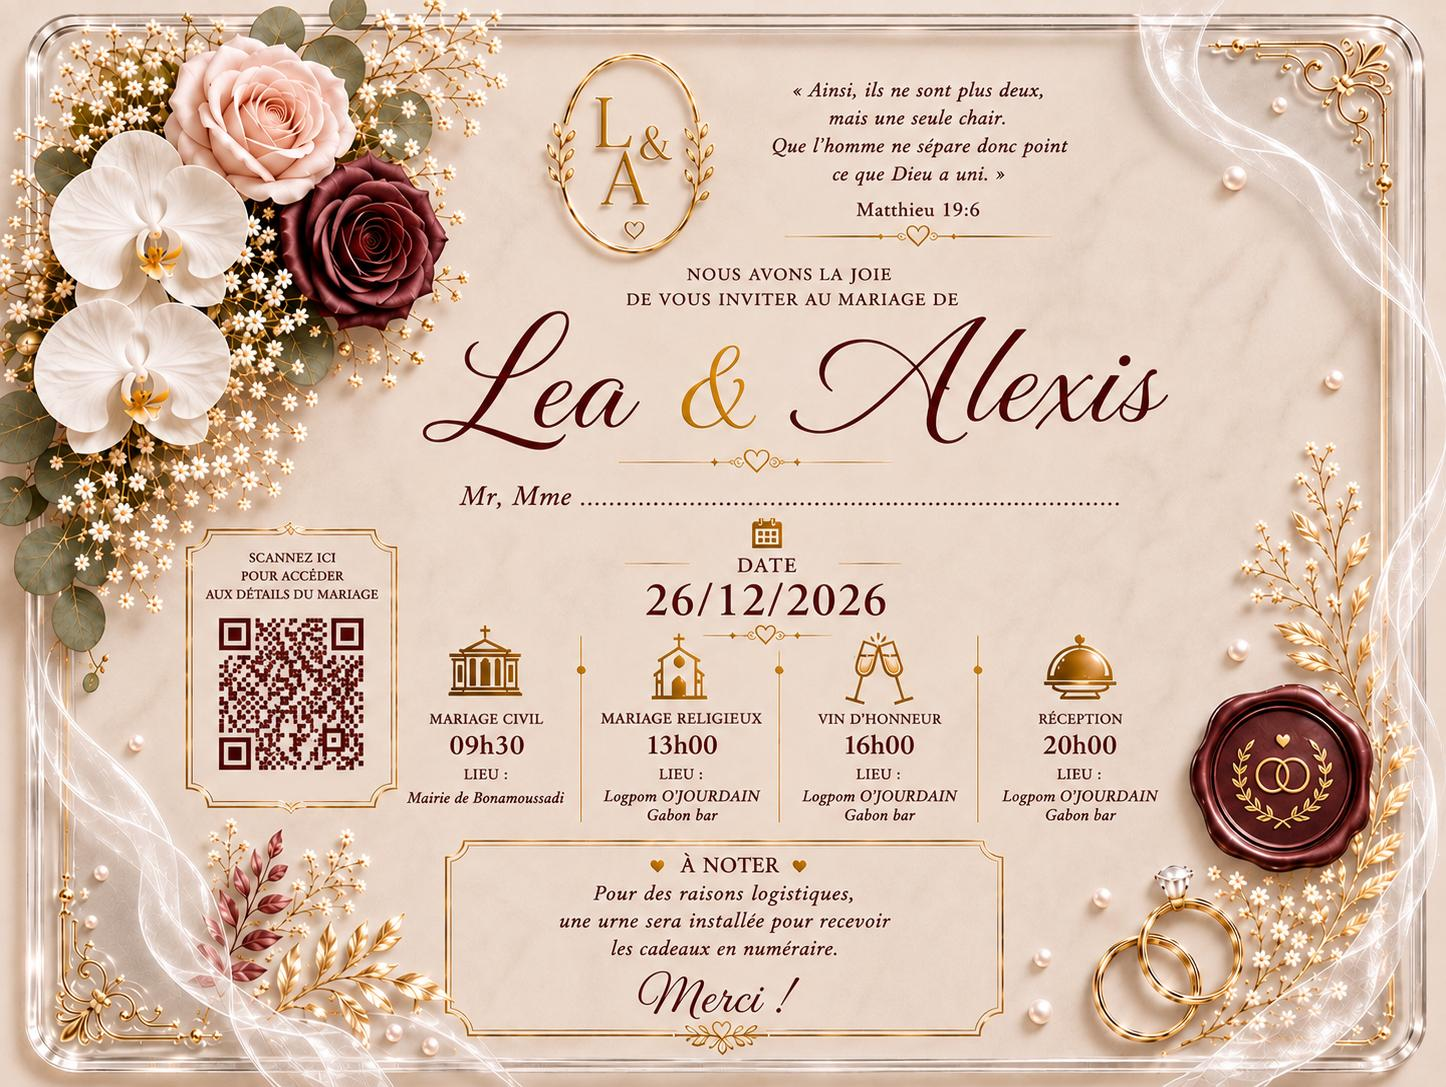
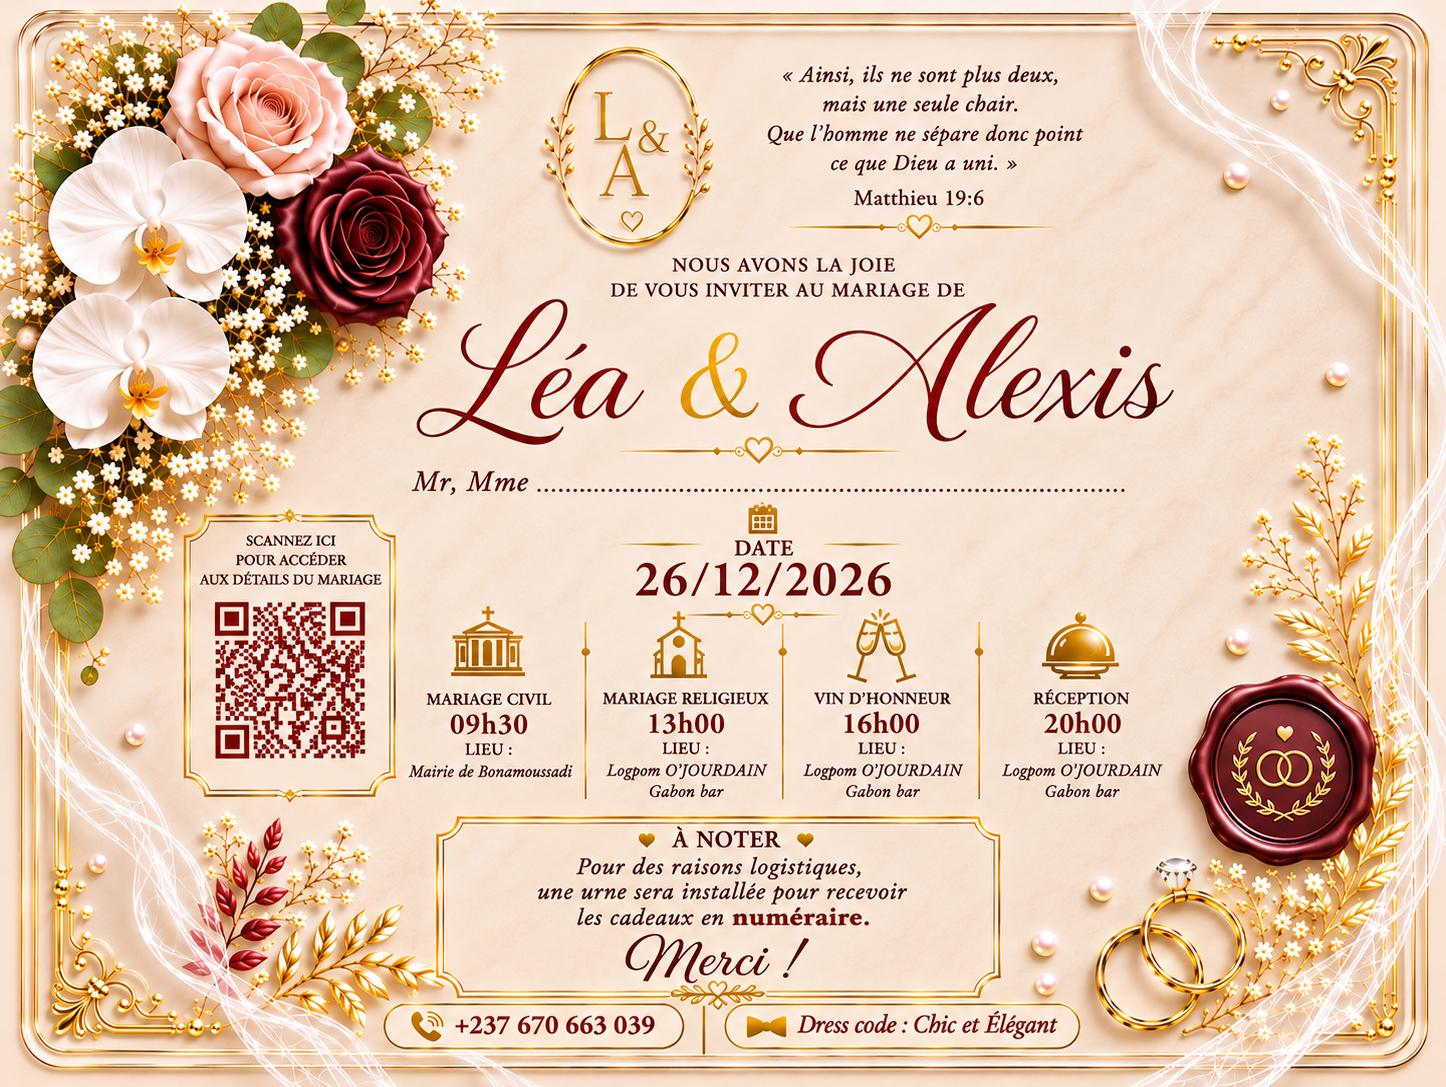
Placer le nom de l'invite et le QR sur le visuel du billet.

diff --git a/frontend/src/utils/GeneratePdf.jsx b/frontend/src/utils/GeneratePdf.jsx
@@ -3,11 +3,13 @@ import QRCode from 'qrcode';
 import { getBilletCivility, getBilletLineText, MAX_BILLET_LINE_CHARS } from './invitePeople';
 import billetImg from '../assets/img/billet.jpg';
 
-const IMG_W = 1024;
-const IMG_H = 768;
+const SRC_W = 1446;
+const SRC_H = 1087;
 const PAGE_W = 280;
 const PAGE_H = 210;
 const API_URL_FRONTEND = 'https://wedd-i8ls.onrender.com';
+const PAPER = 'rgb(247, 226, 208)';
+const INK = 'rgb(92, 51, 23)';
 
 const loadImage = (url) =>
   new Promise((resolve, reject) => {
@@ -42,42 +44,47 @@ const drawBilletCanvas = async (invite) => {
       await QRCode.toDataURL(`${API_URL_FRONTEND}/invites/${invite.inviteId}`, {
         margin: 1,
         width: 512,
-        color: { dark: '#3b1d12', light: '#f3e8d6' },
+        color: { dark: '#3b1d12', light: '#f7e2d0' },
       })
     ),
   ]);
 
   const canvas = document.createElement('canvas');
-  canvas.width = IMG_W;
-  canvas.height = IMG_H;
+  canvas.width = background.naturalWidth || SRC_W;
+  canvas.height = background.naturalHeight || SRC_H;
   const ctx = canvas.getContext('2d');
+  const sx = canvas.width / SRC_W;
+  const sy = canvas.height / SRC_H;
+  const X = (value) => value * sx;
+  const Y = (value) => value * sy;
 
-  ctx.drawImage(background, 0, 0, IMG_W, IMG_H);
+  ctx.drawImage(background, 0, 0);
 
-  ctx.fillStyle = 'rgb(243, 232, 214)';
-  ctx.fillRect(138, 414, 128, 148);
-  ctx.drawImage(qrImage, 142, 420, 120, 120);
+  ctx.fillStyle = PAPER;
+  ctx.fillRect(X(196), Y(455), X(192), Y(330));
 
-  ctx.fillStyle = 'rgb(243, 232, 214)';
-  ctx.fillRect(138, 388, 128, 26);
+  const cardCenter = X(292);
+  ctx.fillStyle = INK;
+  ctx.textAlign = 'center';
+  ctx.textBaseline = 'middle';
+  ctx.font = `bold ${Math.round(16 * sy)}px "Times New Roman", Times, serif`;
+  ctx.fillText('SCANNEZ ICI', cardCenter, Y(488));
+
   const inviteIdText = String(invite.inviteId || '').trim();
   if (inviteIdText) {
-    ctx.fillStyle = 'rgb(92, 51, 23)';
-    ctx.textAlign = 'center';
-    ctx.textBaseline = 'middle';
-    ctx.font = 'bold 13px "Times New Roman", Times, serif';
-    ctx.fillText(inviteIdText, 202, 400);
-    ctx.textAlign = 'left';
-    ctx.textBaseline = 'alphabetic';
+    ctx.font = `bold ${Math.round(15 * sy)}px "Times New Roman", Times, serif`;
+    ctx.fillText(inviteIdText, cardCenter, Y(512));
   }
 
-  ctx.fillStyle = 'rgb(229, 214, 201)';
-  ctx.fillRect(318, 342, 478, 18);
+  const qrSize = X(180);
+  ctx.drawImage(qrImage, cardCenter - qrSize / 2, Y(536), qrSize, qrSize);
 
-  ctx.fillStyle = 'rgb(130, 95, 70)';
-  for (let x = 322; x <= 790; x += 7) {
+  ctx.fillStyle = PAPER;
+  ctx.fillRect(X(398), Y(456), X(248), Y(42));
+  ctx.fillStyle = 'rgb(55, 28, 16)';
+  for (let dot = 412; dot <= 640; dot += 8) {
     ctx.beginPath();
-    ctx.arc(x + 1.5, 355.5, 1.5, 0, Math.PI * 2);
+    ctx.arc(X(dot), Y(490), Math.max(1.2, 1.5 * sx), 0, Math.PI * 2);
     ctx.fill();
   }
 
@@ -87,10 +94,11 @@ const drawBilletCanvas = async (invite) => {
   const fullLine = [civility, nameOnLine].filter(Boolean).join(' ');
 
   if (fullLine) {
-    ctx.fillStyle = 'rgb(92, 51, 23)';
+    ctx.fillStyle = INK;
+    ctx.textAlign = 'left';
     ctx.textBaseline = 'alphabetic';
-    const fitted = fitCanvasText(ctx, fullLine, 460);
-    ctx.fillText(fitted, 322, 351);
+    const fitted = fitCanvasText(ctx, fullLine, X(690), Math.round(26 * sy), Math.round(16 * sy));
+    ctx.fillText(fitted, X(414), Y(485));
   }
 
   return canvas;
